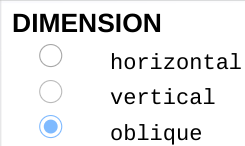
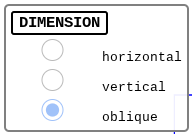
Add files via upload

diff --git a/help/help.html b/help/help.html
@@ -13,6 +13,15 @@
 			font-weight: bold;
 			color: #000088;
 		}
+		h2 {
+			margin-top: 2em;
+		}
+		.border {
+			border: gray solid 1px;
+		}
+		.invert {
+			transform: rotate(180deg);
+		}
 	</style>
 </head>
 <body>
@@ -21,26 +30,31 @@
 PWAs can be run online like any web app but can also be installed on your device via the menu in your browser.</p>
 <p>The app uses SVG - scalable vector graphics - and is general-purpose but especially useful for technical drawings.</p>
 <p>You can select various drawing sizes up to A4 in portrait or landscape orientations and you can draw to scale, organising drawings on up to 10 layers. Accurate drawing is aided by 'snap' to drawing elements, to a grid or orthogonally.</p>
-<p>Keep reading and tap links to jump to particular sections.</p>
+<p>Tap links (in blue) to jump to particular topics.</p>
 <h2>screen layout</h2>
 <p>Toolboxes appear on the left of the screen with either <a href='#draw'>drawing tools</a> or <a href='#edit'>editing tools</a>.</p>
-<p>Whichever toolbox is visible there will be the <a href='#styles'>styles</a> box at the top with <a href='#layers'>layers</a> below it.</p>
-<p>While drawing or editing elements you will often have <a href='#info'>information</a> at the top of the screen, and sometimes you will interact with <a href='#dialogs'>dialog boxes which appear at the top left corner.</a></p>
+<p>Whichever toolbox is visible there will be the <a href='#styles'>styles</a> box at the top-left with <a href='#layers'>layers</a> below it.</p>
+<p>While drawing or editing elements you will often have <a href='#info'>information</a> at the top of the screen, and sometimes you will interact with 
+<a href='#dialogs'>dialog boxes</a> which appear at the top left corner.<br>
+At the top-right corner is the <i>more</i> button for other options. <img src='../svg/more.svg'></p>
 <p>The sequence is <a href='#draw'>draw</a>, <a href='#select'>select</a>, <a href='#edit'>edit</a> and <a href='#files'>save</a>.</p>
-<p><img src='screen.png'></p>
+<p><img src='screen.png' class='border'></p>
 <h2 id='draw'>Draw</h2>
-<p>Drawing is slightly different for the various drawing tools but usually involves tapping or dragging to position and size a drawing element. You use a mouse or a touch screen.</p>
+<p>Drawing is slightly different for the various drawing tools but usually involves tapping or dragging to position and size a drawing element. You use a mouse or a touch screen. 
+The draw toolbox also includes tools for loading and saving files and controlling your view of the drawing.</p>
 <p><img src='../svg/document.svg'><br>
 The document tool displays the <b>DRAWING</b> information - size, orientation and scale. You set these when you started a new drawing.</p>
 <p><img src='drawing.png'><br>
 You can choose a grid size and whether to 'snap' elements to the grid, and there are buttons for saving drawings, starting new drawings and loading saved ones - see the <a href='#files'>files</a> section.</p>
-</p>
 <p><img src='../svg/zoomin.svg'> <img src='../svg/zoomout.svg'> <img src='../svg/extents.svg'> <img src='../svg/pan.svg'><br>
 The view controls let you <i>zoom</i> in or out (doubling or halving the magnification) or quickly return to the initial magnification and drawing position after zooming or moving around the drawing with the <i>pan</i> tool. The zoom tools are single-tap but you drag the drawing after tapping pan.</p>
 <p><img src='../svg/curve.svg'><br>
 The <i>curve</i> tool lets you draw smoothed Bezier curves by dragging and the curve is drawn when you release the mouse button or lift your finger or stylus from a touchscreen.</p>
 <p><img src='../svg/line.svg'><br>
-Use the <i>line</i> tool to draw lines and shapes. Drag to draw a line segment. If you just want a single line, tap again at the end point. Otherwise, lifting the pointer ends the first segment and starts the next one. A tap at the end point finishes the line(s) and there is a limit of 10 segments. If you end a segment close to the start of the lines you will have a closed polygonal <i>shape</i>. While you are dragging a line segment you will see its length and direction at the top of the screen. Directions are shown as on a compass - degrees clockwise from 'north' at the top.</p>
+Use the <i>line</i> tool to draw lines and shapes. Drag to draw a line segment. If you just want a single line, tap again at the end point. Otherwise, lifting the pointer ends the first segment and starts the next one. 
+A tap at the end point finishes the line(s) and there is a limit of 10 segments. If you end a segment close to the start of the lines you will have a closed polygonal <i>shape</i>. 
+While you are dragging a line segment you will see its length and direction at the top of the screen. Directions are shown as on a compass - degrees clockwise from 'north' at the top. 
+Next to this information is a 'FINISH' button. Tapping this will end the line in the same way as a double-tap.</p>
 <p><img src='../svg/box.svg'><br>
 The <i>box</i> tool draws rectangles and squares. As you drag from a corner, the width and height will be shown and there is a degree of 'snap' making it easy to draw a square.</p>
 <p><img src='../svg/oval.svg'><br>
@@ -61,9 +75,9 @@ Tap the DIMENSION button to move on to positioning the dimension.
 Dimensions are associated with the elements they are attached to and move with elements if they are moved and are recalculated if elements are resized. You cannot, though, have dimensions attached to separate elements.<br>
 <img src='dimension.png'></p>
 <p><img src='../svg/set.svg'><br>
-Draft allows you to combine a number of drawing elements - boxes, lines, ovals, text, etc. - into <i>sets</i> A set can be any more complex item that yoou might want to repeat easily or which you might use in other drawings. 
-There is more about sets below, but this tool is how you add a set to your drawing: it brings up a list of the sets you have available and the one you choose is added - easy!.<br>
-<img src='set.png'></p>
+Draft allows you to combine a number of drawing elements - boxes, lines, ovals, text, etc. - into <i>sets</i> A set can be any more complex item that you might want to repeat easily or which you might use in other drawings. 
+There is more about <a href='#sets'>sets</a> below, but this tool is how you add a set to your drawing: it brings up a list of the sets you have available and the one you choose is added - easy!.<br>
+<img src='sets.png'></p>
 <h2>Select</h2>
 <p>Tapping any drawing element will select it allowing you to view its properties and move, edit or delete it if you wish. 
 Blue guides are shown: lines denoting the shape of the element, a circle <i>mover</i> handle, one or more <i>sizer</i> handles, and small dots at nodes. 
@@ -72,17 +86,150 @@ When you select elements the drawing tools are replaced by editing tools .
 In this example the selected box has <i>spin</i> (it has 30&deg; rotation) but the sizing box remains un-rotated to aid orthogonal snapping.</p>
 <p>The selected element's <i>style</i> is reflected in the style box at the top left and its size and spin are shown in the information panel. 
 When no elements are selected the style box shows the current default styling, used for new drawing elements.</p>
-<p><img src='select.png'></p>
+<p><img src='select.png' class='border'></p>
 <p>You can select more then one element at a time, by tapping on the ones you want or by dragging a selection box around them. 
 In this case styling and sizes differ from one element to another so no styling or sizes are shown, while blue rectangles indicate which elements are selected. 
 You can drag them all at once or perform other operations such as aligning them. 
 Tapping any blank part of the drawing cancels the selection and switches back to the drawing tools.</p>
-<h2>edit</h2>
+<h2 id='edit'>Edit</h2>
 <p>You can make changes to any selected drawing element, including the styling of the element or which layer it appears on, but styles and layers are described below.</p>
 <p><img src='../svg/add.svg'><br>
-The <i>add tool</i> is used to add segments to curves, lines or shapes. Tap add then tap a node. A new node will be inserted or appended after the node you choose and can then be dragged if you wish.</p>
+The <i>add tool</i> is used to add segments to curves, lines or shapes. Tap add then tap a node.<br>
+A new node will be inserted or appended after the node you choose and can then be dragged if you wish.</p>
 <p><img src='../svg/cross.svg'><br>
 The reverse is <i>remove</i>. This tool is used to remove nodes (and thus segments) from curves, lines and shapes or to delete whole elements or all selected elements.<br>
-<img src='remove.png'></p>
+<img src='delete.png'></p>
+<p><img src='../svg/up.svg'><img src='../svg/up.svg' class='invert'><br>
+Elements are drawn in order and elements early in the order my be oabscured by subsequent elements.<br>
+These tools bring a selected element <i>forward</i> or push it <i>back</i>, changing the order.</p>
+<p><img src='../svg/move.svg'><br>
+The <i>move</i> tool brings up an dialog where you can say how far you want the selected element(s) to move using either cartesian or polar coordinates.<br>
+Cartesian coordinates move elements to the right and/or down (or left and up if negative values are entered) 
+while polar coordinates move the selection a given distance in a particular direction (equivalent to compass bearings).<br>
+<img src='moveDialog.png'></p>
+<p><img src='../svg/spin.svg'><br>
+To rotate elements use the <i>spin</i> tool. This brings up the spin dialog for you to say how much you want to rotate an element or collection of elements.<br>
+Enter a number of degrees of (clockwise) roatation. To spin anticlockwise use a negative angle.<br>
+Each element is rotated about its <i>mover</i> handle and if more than one element is selected they are all rotated around the handle of the first element selected. 
+Spin here is relative - if and element has already been rotated, its spin is adjusted by the amount you enter.<br>
+You can also set the spin or rotation of a selected element by entering a number of degrees (typically in the range +/-180) in the last information box at the top of the screen.<br>
+<img src='spinDialog.png'></p>
+<p><img src='../svg/flip.svg'><br>
+The <i>flip</i> tool reverses the orientation of an element either left-to-right or top-to-bottom, flipping it about its <i>mover</i>.<br>
+You simply tap on one of the to flip directions in the dialog.<br>
+<img src='flipDialog.png'></p>
+<p><img src='../svg/align.svg'><br>
+If you have selected more than one element you can line them up using the <i>align</i> tool.<br>There are six options: align by left, right, top, bottom or centre horizontally or vertically.<br>
+<img src='alignDialog.png'></p>
+<img src='../svg/copy.svg'><br>
+The <i>copy</i> tool is the first and simplest of three ways of duplicating elements.<br>
+Tapping it creates a duplicate copy of the seected element in the same location.<br>
+There is no visible change but you can select the new copy and drag it to a new location or change its layer to duplicate elements on multiple layers.
+<p><img src='../svg/double.svg'><br>
+Another way to duplicate an element is to <i>double</i> it.<br>
+Enter an offset dimension in the dialog and a parallel copy will appear.<br>
+Double lines can be quickly formed, adding the new line to the right or left (negative offsets), or  you can double a box or oval bigger or smaller (negative offsets) than the original.<br>
+<img src='doubleDialog.png'></p>
+<p><img src='../svg/repeat.svg'><br>
+Use the <i>repeat</i> tool to create multiple copies of an element in one or two dimensions.<br>
+The copies are arranged in rows and/or columns.<br>
+Enter the total number you want in a row and/or the number of rows, along with the horizontal and/or vertical offset(s).<br>
+As in the move dialog, use negative offsets to copy to the left or upwards.<br>
+<img src='repeatDialog.png'></p>
+<p><img src='../svg/set.svg'><br>
+The <i>join</i> tool is used to combine selected elements to create a <i>set</i>.<br>
+Sets make it easy to add predefined figures to a drawing. They can also be saved for use in other drawings.<br>
+Draw your original figure using whatever elements you need then select these elements and tap <i>join</i>.<br>
+The <i>mover</i> handle of the first element you select will be the handle of the set.<br>
+<img src='joinDialog.png' class='border'></p>
+<h2 id='info'>Information</h2>
+<p>When you select a drawing element you will often see some information about it at the topof the screen.<br>
+The information displayed varies according to the context. In this example - for a box with round corners - you have...<br>
+<ul>
+	<li>the element type</li>
+	<li>its size - width x height</li>
+	<li>the corner radius</li>
+	<li>its spin or rotation</li>
+</ul>
+<img src='info.png' class='border'></p>
+<p>Also visible here are the blue guide lines which will appear during selection and editing operations.<br>
+They attach to a node when the cursor is close and help you align either horizontally or vertically with another element.</p>
+<p>Sometimes you will see an action button after the size fields...<br>
+<b>FINISH</b> is an alternative way of ending a line or series of lines.<br>
+<b>EDIT</b> allows you to amend or add to text.</p>
+<p>You will often see scrolling <i>hints</i> either below the information fields or on their own at the top of the screen.<br>
+These are intended to provide contextual help.</p>
+<h2 id='dialogs'>Dialogs</h2>
+<p>Dialogs can have several types of content. Some have a title button at the top which you tap to confirm settings, others just have a title.<br>
+Some have fields for you to enter numbers or text.<br>
+Some have a series of options.<br>
+Some have option icons or colours or patterns.<br>
+Dialogs disappear when you confirm a choice or, sometimes, as soon as you tap an option, and if you change your mind, just tapping somewhere outside the dialog will cancel it.<br>
+The <i>clear</i> button, which appears in several dialogs, is a quick way of resetting all fields. Otherwise, values will remain set which can help where you want to repeat operations for several elements.<br>
+<img src='../svg/clear.svg'></p>
+<h2 id='styles'>Styles</h2>
+<p>Styles dictate the appearance of drawing elements. To see the options, tap the <i>styles</i> box at the top-left.<br>
+<img src='stylesDialog.png'><br>
+If an element is selected, the <i>styles</i> dialog shows the styling of the element, otherwise it shows the current defaults.<br>
+Similarly, changing the style will either affect a selected element or change the default.<br>
+The top line is for <b>line</b> style: lines can be continuous (solid), dashed, dotted or invisible (none);<br>
+Line ends and corners can be square or rounded and there are four pen widths - from 0.25 to 2mm.<br>
+Next is <b>text</b> which can be one of four typefaces, normal (fine), bold or italic in 5 sizes<br>
+The colour box after the text styles is used to set the colour of both lines and text, choosing from 64 colours.<br>
+Closed shapes such as boxes can have <b>fill</b>: solid, pattern or none. The default white fill looks like no fill but makes elements easier to select.<br>
+Pattern fill uses the current fill colour (the same 64 colours) for one of 15 designs.<br>
+<img src='patternDialog.png'><br>
+Finally, <b>opacity</b> and <b>blur</b> apply to the whole element and each have four gradations.</p>
+<h2 id='layers'>Layers</h2>
+<p><img src='layersButton.png'><br>
+You can organise drawings on just one or up to 10 layers.<br>
+The <i>layers</i> button shows the current layer or that of a selected element and brings up a dialog.<br>
+You can select which layer you are working on and which layers are visible, and you can give layers names.<br>
+You can also choose whether to work on just the current layer or any visible layer.</p>
+<p>If you have an element selected the layers button shows which layer it is on. 
+If you want to move it to another layer, tap the button and choose a layer from the list.</p>
+<img src='layersDialog.png'><br>
+Here layers are used for different storeys in a building. With more than one layer visible, you can see how one level relates to another.<br>
+With just one layer visible you can see just one storey and save that floor plan for printing.<br>
+There are other ways to organise layers. One layer could be reserved for reference and guide lines,<br>
+different layers could represent phases of development or different utilities such as power, water and drainage.<br>
+It's up to you - fill your boots!</p>
+<h2 id='sets'>Sets</h2>
+<img src='../svg/set.svg'><br>
+<p>Suppose you are drawing an electronics circuit with several diodes.<br>
+You can draw one diode using a black triangle and a line, use <i>repeat</i> to draw a number of copies, then select each in turn, dragging them to new locations, or...<br>
+You can select both the triangle and the line (starting by tapping the centre of the apex of the triangle to use as a handle) and tap <i>join</i>.<br>
+Name the set 'diode' then you can place as many diodes as you like using the <i>set</i> tool.</p>
+The <i>set</i> tool in the draw toolbox and the <i>join</i> tool in the edit toolbox look the same and complement each other.<br>
+<p>If you create a few different sets while drafting a drawing or diagram you can easily save them for use another time.<br>
+Tap the <i>document</i> tool then choose <b>SAVE</b>. Choose the sets you want to include, enter a name ("electronics"?) and save your set (or set of sets)<br>
+Next time you want to produce a similar drawing or diagram, choose <b>LOAD</b> from the document menu and find the set file to import.</p>
+<p><img src='setSaveDialog.png'><img src='loadSetDialog.png'></p>
+<p>Electronics symbols is on idea for a set of sets but there are many, many more...<br>
+as an architect I would have kitchen or bathroom fittings, furniture, lighting and other electrical symbols, graphic elements like north points.<br>
+A civil engineer might have sets for drainage and utilities, street lighting, road signs,...<br>
+Whatever your discipline, if you are drafting there will be sets you can create.</p>
+<h2 id='documents'>Documents</h2>
+<img src='../svg/document.svg'><br>
+The <i>document</i> tool gives access to files of three types: data, drawings and sets.<br>
+We looked at creating <b>NEW</b> drawings earlier, but you will also <b>LOAD</b> and <b>SAVE</b> files.
+<p>You can LOAD drawings - the drawing data - or sets (or sets of sets).<br>
+Loading sets makes them available for use in your drawing, while loading a drawing replaces any current drawing, so remember to SAVE first!</p>
+<p>You can SAVE the drawing data - defining the whole drawing, the current view as a file you can print, or one or more sets as described above.</p>
+<p>Drawing data and sets are each saved in JSON format (JavaScript Object Notation) while drawings for viewing or printing are saved in SVG format.<br>
+View them on screen and choose the 'print' option.<br>
+Setting the print options to fit the  paper (no margins) at default or 100% scale will usually print a drawing accurately to scale.<br>
+You also have the option of 'printing' to PDF - possibly a more portable format.</p>
+<p>Files could for example be saved in a 'Draft' folder with sub-folders for drawings and sets, or in individual folders for different projects. It's up to you.</p>
+<h2>More</h2>
+<img src='../svg/more.svg'><br>
+<p>The <i>more</i> button gives access to four additional options...<br>
+<b>Help</b>: you're looking at it!<br>
+<b>Reload</b>: Simply reloads the current drawing - useful if something has gone a bit wrong (Draft is under constant development).<br>
+<b>Reset</b>: For when things go more than a bit wrong (the emergency button) - restarts the app. You should not lose anything.<br>
+<b>Feedback</b>: email me with suggestions, complaints, questions, ideas, and I will try to respond.<br>
+<img src='moreDialog.png'></p>
+<h2>Enjoy!</h2>
+Elvin Ibbotson 2025
 </body>
 </html>
